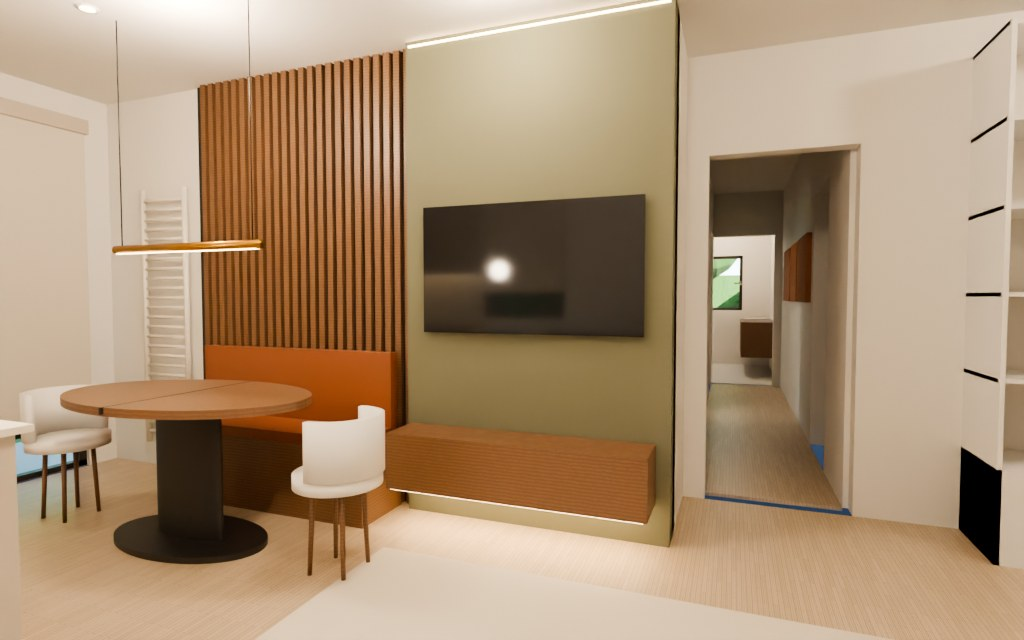
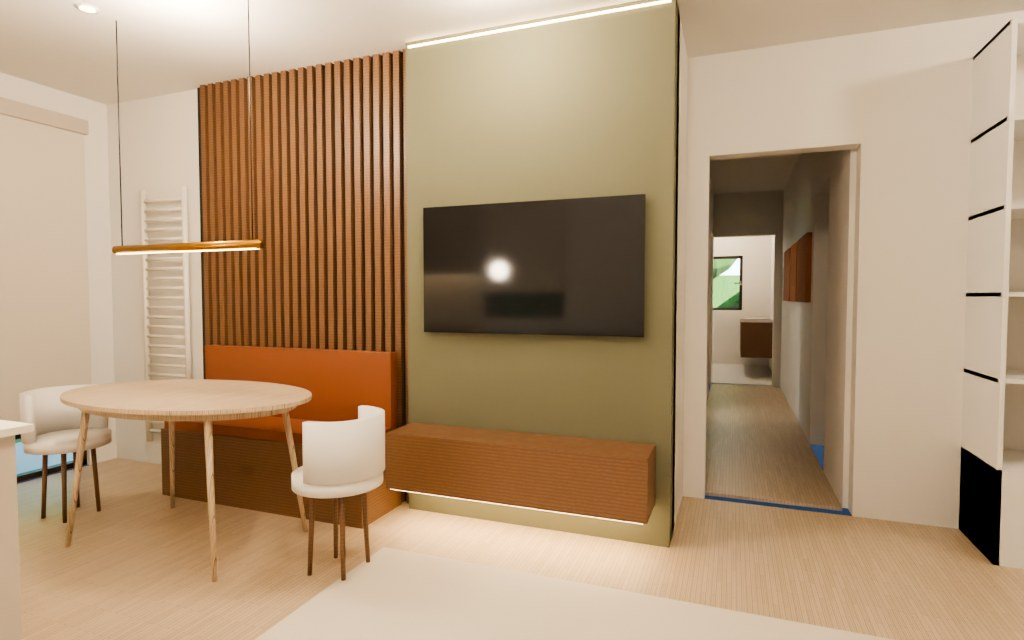
casa-render: light oak chairs with cord seat, dining shifted away from patio door, slimmer TV unit, top and aerial cutaway views
Claude-Session: https://claude.ai/code/session_01XsjuY23tZaM35RJy68pE2v

Changed region(s): [[0.0625, 0.5938, 0.3125, 0.9062]]

diff --git a/casa-render/render.py b/casa-render/render.py
@@ -87,7 +87,7 @@ MAT = {
  'nero_oro': node_mat('nero_oro', (0.015, 0.013, 0.012), 0.1, tex='nero_oro', scale=0.8),
  'anthr': node_mat('anthr', srgb(0x35373a), 0.5), 'black': node_mat('black', srgb(0x111112), 0.18, 0.3), 'steel': node_mat('steel', (0.75, 0.76, 0.78), 0.22, 1.0),
  'white': node_mat('white', srgb(0xf1efea), 0.5), 'ceramic': node_mat('ceramic', (0.95, 0.95, 0.94), 0.08), 'wall': node_mat('wall', srgb(0xf2ede4), 0.85),
- 'fabric': node_mat('fabric', srgb(0x9a938a), 0.95), 'boucle': node_mat('boucle', srgb(0xefebe4), 1.0), 'pillow': node_mat('pillow', srgb(0x8a4f2e), 1.0),
+ 'fabric': node_mat('fabric', srgb(0x9a938a), 0.95), 'boucle': node_mat('boucle', srgb(0xefebe4), 1.0), 'corda': node_mat('corda', srgb(0xd9c7a2), 0.9), 'pillow': node_mat('pillow', srgb(0x8a4f2e), 1.0),
  'rug': node_mat('rug', srgb(0xe3d9c8), 1.0), 'linen': node_mat('linen', srgb(0xeae4d8), 0.95), 'glass': node_mat('glass', (1, 1, 1), 0.0, transm=1.0),
  'frame': node_mat('frame', srgb(0x3a3029), 0.45), 'grass': node_mat('grass', (0.1, 0.25, 0.05), 0.95, tex='grass', scale=1), 'paving': node_mat('paving', srgb(0xcfc7b8), 0.85),
  'hedge': node_mat('hedge', srgb(0x2f5a2a), 0.9), 'led': node_mat('led', (1, 0.85, 0.6), 0.5, emit=(1, 0.75, 0.45)), 'tv': node_mat('tv', (0.01, 0.01, 0.012), 0.08, 0.2),
@@ -161,7 +161,7 @@ def wall(n, x0, y0, x1, y1):
         cur = b
     seg(cur, end, 0, 270)
 
-TC = (274.5, 375)
+TC = (274.5, 355)
 for g, n, x0, y0, z0, x1, y1, z1 in rows:
     if n.startswith('Parete') and 'TV' not in n: wall(n, x0, y0, x1, y1); continue
     if n.startswith('Albero'):
@@ -184,10 +184,12 @@ for g, n, x0, y0, z0, x1, y1, z1 in rows:
         continue
     if n.startswith('Sedia'):
         sx, sy = (x0+x1)/2, (y0+y1)/2; dx, dy = sx-TC[0], sy-TC[1]; ang = math.atan2(dy, dx)
-        cyl_pts((sx, sy, 40), (sx, sy, 46), 20, 'boucle', 40)
-        arc_wall(sx, sy, 17.5, ang - math.radians(95), ang + math.radians(95), 46, 72, 3.5, 'boucle')
-        for a in (45, 135, 225, 315):
-            la = math.radians(a); cyl_pts((sx+math.cos(la)*13, sy+math.sin(la)*13, 0), (sx+math.cos(la)*11, sy+math.sin(la)*11, 40), 1.0, 'walnut', 10, 1.3)
+        # light chair: thin oak ring with paper-cord seat, slender legs, open curved back rail
+        cyl_pts((sx, sy, 42), (sx, sy, 44), 20, 'oak', 40); cyl_pts((sx, sy, 44), (sx, sy, 45), 18.8, 'corda', 40)
+        P = lambda a, r, z: (sx + math.cos(ang + math.radians(a))*r, sy + math.sin(ang + math.radians(a))*r, z)
+        for a in (135, -135): cyl_pts(P(a, 17, 0), P(a, 15, 42), 1.0, 'oak', 10, 1.3)
+        for a in (40, -40): cyl_pts(P(a, 17, 0), P(a, 19, 76), 1.0, 'oak', 10, 1.3)
+        arc_wall(sx, sy, 19.5, ang - math.radians(55), ang + math.radians(55), 70, 77, 1.8, 'oak')
         continue
     if 'Cappa' in n:
         box(x0, y0, z0, x1, y1, z1, 'black'); box(x0+2, y0+2, z0-.5, x1-2, y1-2, z0, 'led'); top = ((x0+x1)/2, (y0+y1)/2, 267)
@@ -239,12 +241,12 @@ cyl_pts((15, 425, 90), (15, 425, 120), .9, 'white'); cyl_pts((15, 425, 120), (28
 box(121, 302, 90, 129, 347, 90.4, 'steel'); [box(122, y, 90.4, 128, y + 1, 90.5, 'nero') for y in range(304, 346, 3)]
 box(126, 499, 88, 178, 500, 147, 'black'); box(126, 499, 150, 178, 500, 190, 'black')
 # TV wall: deep olive microcement, ceiling wash light and soft glow under the floating unit
-box(351, 145, 266.5, 352, 290, 267.5, 'led'); box(323, 152, 21.4, 348, 286, 22, 'led')
+box(351, 145, 266.5, 352, 290, 267.5, 'led'); box(333, 152, 21.4, 349, 266, 22, 'led')
 # dining: linear brass pendant over the table
-for y in (330, 420): cyl_pts((TC[0], y, 152), (TC[0], y, 270), .3, 'nero', 6)
-cyl_pts((TC[0], 325, 150), (TC[0], 425, 150), 2.2, 'brass', 24); box(TC[0] - 1.2, 327, 147.6, TC[0] + 1.2, 423, 148, 'led')
+for y in (310, 400): cyl_pts((TC[0], y, 152), (TC[0], y, 270), .3, 'nero', 6)
+cyl_pts((TC[0], 305, 150), (TC[0], 405, 150), 2.2, 'brass', 24); box(TC[0] - 1.2, 307, 147.6, TC[0] + 1.2, 403, 148, 'led')
 # recessed LED ceiling spots (kitchen + living)
-for x, y in ((60, 60), (60, 200), (180, 60), (180, 200), (290, 60), (290, 200), (30, 330), (30, 450), (110, 430), (260, 330), (260, 420)):
+for x, y in () if os.environ.get('CASA_NOCEIL') else ((60, 60), (60, 200), (180, 60), (180, 200), (290, 60), (290, 200), (30, 330), (30, 450), (110, 430), (260, 310), (260, 400)):
     cyl_pts((x, y, 269.2), (x, y, 270), 5, 'white', 24); cyl_pts((x, y, 269), (x, y, 269.3), 3.5, 'led', 24)
 # kitchen fronts: door/drawer seams and handle-less gola grips (recessed channel, darker cashmere)
 def front(ax, p, d, a, b, z0, z1, hs=(), vs=(), gola=True, vgola=None):
@@ -285,7 +287,7 @@ def plant(x, y, s=1.0):
         o = bpy.context.object; o.scale = (1, 0.7, 1.25); o.rotation_euler = (0.3*math.sin(i), 0.3*math.cos(i), a); o.data.materials.append(MAT['leaf'])
         for p in o.data.polygons: p.use_smooth = True
 pass  # piante rimosse
-box(-13, -215, 270, 1217, 573, 275, 'wall')
+if not os.environ.get('CASA_NOCEIL'): box(-13, -215, 270, 1217, 573, 275, 'wall')
 # world sky + sun
 w = bpy.data.worlds.new('w'); sc.world = w; w.use_nodes = True
 sky = w.node_tree.nodes.new('ShaderNodeTexSky'); sky.sky_type = 'MULTIPLE_SCATTERING' if hasattr(sky, 'sky_type') and 'MULTIPLE_SCATTERING' in [i.identifier for i in sky.bl_rna.properties['sky_type'].enum_items] else sky.sky_type
@@ -307,13 +309,14 @@ for x, y, z, e in ((125, 324, 150, 6), (262, 365, 240, 10), (150, 150, 262, 12),
 # camera
 c = bpy.data.cameras.new('cam'); c.sensor_fit = 'VERTICAL'; c.angle_y = math.radians(FOV)
 co = bpy.data.objects.new('cam', c); coll.objects.link(co); sc.camera = co
+if os.environ.get('CASA_ORTHO'): c.type = 'ORTHO'; c.ortho_scale = float(os.environ['CASA_ORTHO'])
 co.location = Vector(cam[:3]) * S; co.rotation_euler = (Vector(cam[3:]) * S - co.location).to_track_quat('-Z', 'Y').to_euler()
 sc.render.engine = 'CYCLES'; sc.cycles.device = 'CPU'; sc.cycles.samples = SAMPLES; sc.cycles.use_denoising = True
 sc.cycles.max_bounces = 6; sc.cycles.diffuse_bounces = 3; sc.cycles.glossy_bounces = 3; sc.cycles.transmission_bounces = 6
 sc.render.resolution_x = W; sc.render.resolution_y = H; sc.render.resolution_percentage = 100
 try: sc.view_settings.view_transform = 'AgX'; sc.view_settings.look = 'AgX - Medium High Contrast'
 except Exception: sc.view_settings.view_transform = 'Filmic'
-sc.view_settings.exposure = 0.6
+sc.view_settings.exposure = -1.4 if os.environ.get('CASA_NOCEIL') else 0.6
 sc.render.filepath = OUT; sc.render.threads_mode = 'AUTO'
 bpy.ops.render.render(write_still=True)
 print('DONE', OUT)
